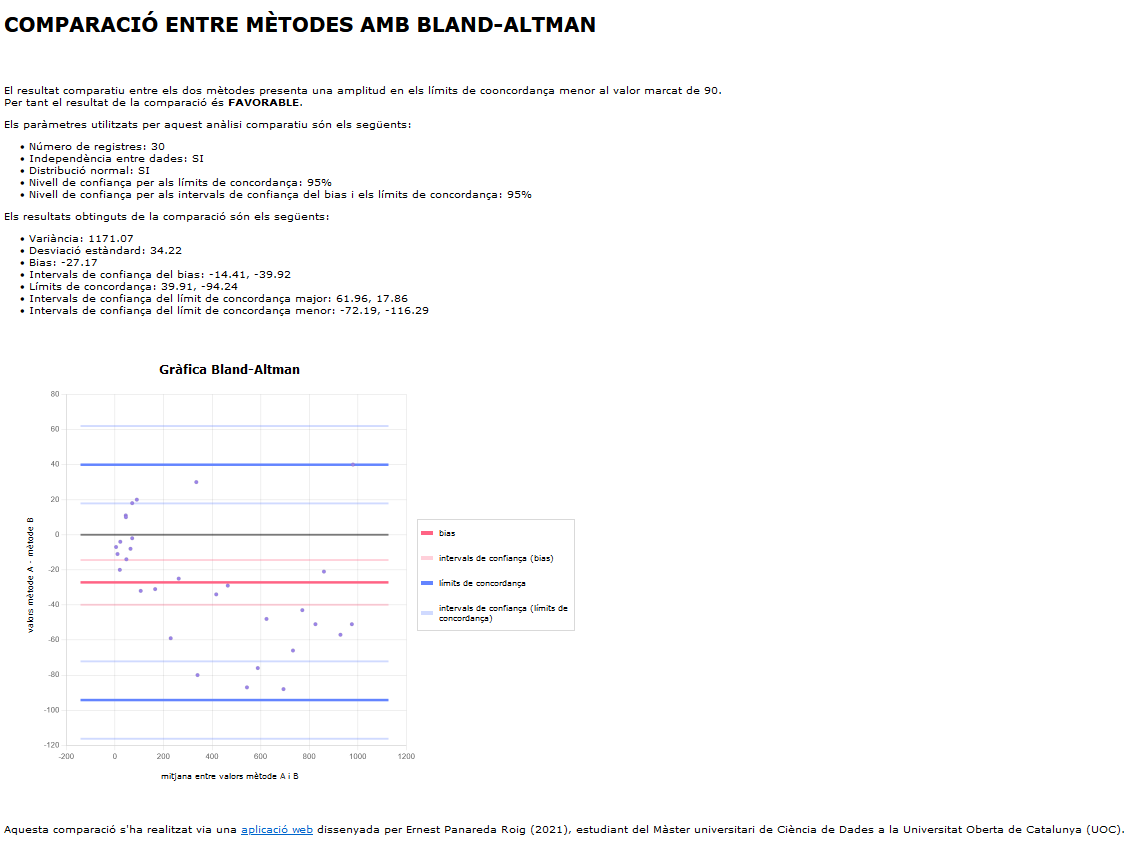
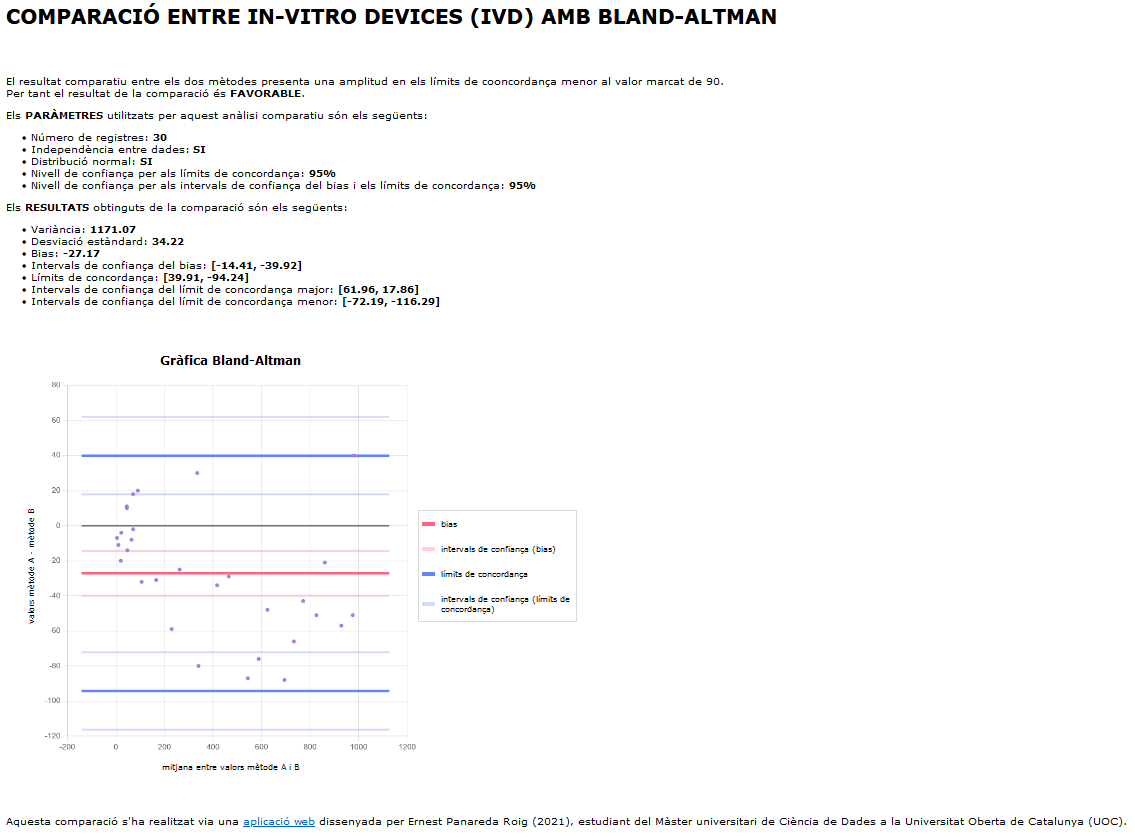
Add files via upload

diff --git a/index.html b/index.html
@@ -6,7 +6,7 @@
         <link rel="stylesheet" href="style.css">
     </head>
     <body>
-        <h1>COMPARACIÓ ENTRE IN-VITRO DEVICES (IVD) AMB BLAND-ALTMAN</h1>
+        <h1>COMPARACIÓ ENTRE IN-VITRO DEVICES (IVDs) AMB BLAND-ALTMAN</h1>
         </br>
         <nav id="nav_bar">
             <h2><a href="index.html" style="font-size: 23px;">HOME</a></h2>

diff --git a/manual.html b/manual.html
@@ -6,7 +6,7 @@
         <link rel="stylesheet" href="style.css">
     </head>
     <body>
-        <h1>COMPARACIÓ ENTRE IN-VITRO DEVICES (IVD) AMB BLAND-ALTMAN</h1>
+        <h1>COMPARACIÓ ENTRE IN-VITRO DEVICES (IVDs) AMB BLAND-ALTMAN</h1>
         </br>
         <nav id="nav_bar">
             <h2><a href="index.html">HOME</a></h2>

diff --git a/app.html b/app.html
@@ -7,7 +7,7 @@
     </head>
 
     <body>
-        <h1>COMPARACIÓ ENTRE IN-VITRO DEVICES (IVD) AMB BLAND-ALTMAN</h1>
+        <h1>COMPARACIÓ ENTRE IN-VITRO DEVICES (IVDs) AMB BLAND-ALTMAN</h1>
         </br>
         <nav id="nav_bar">
             <h2><a href="index.html">HOME</a></h2>
